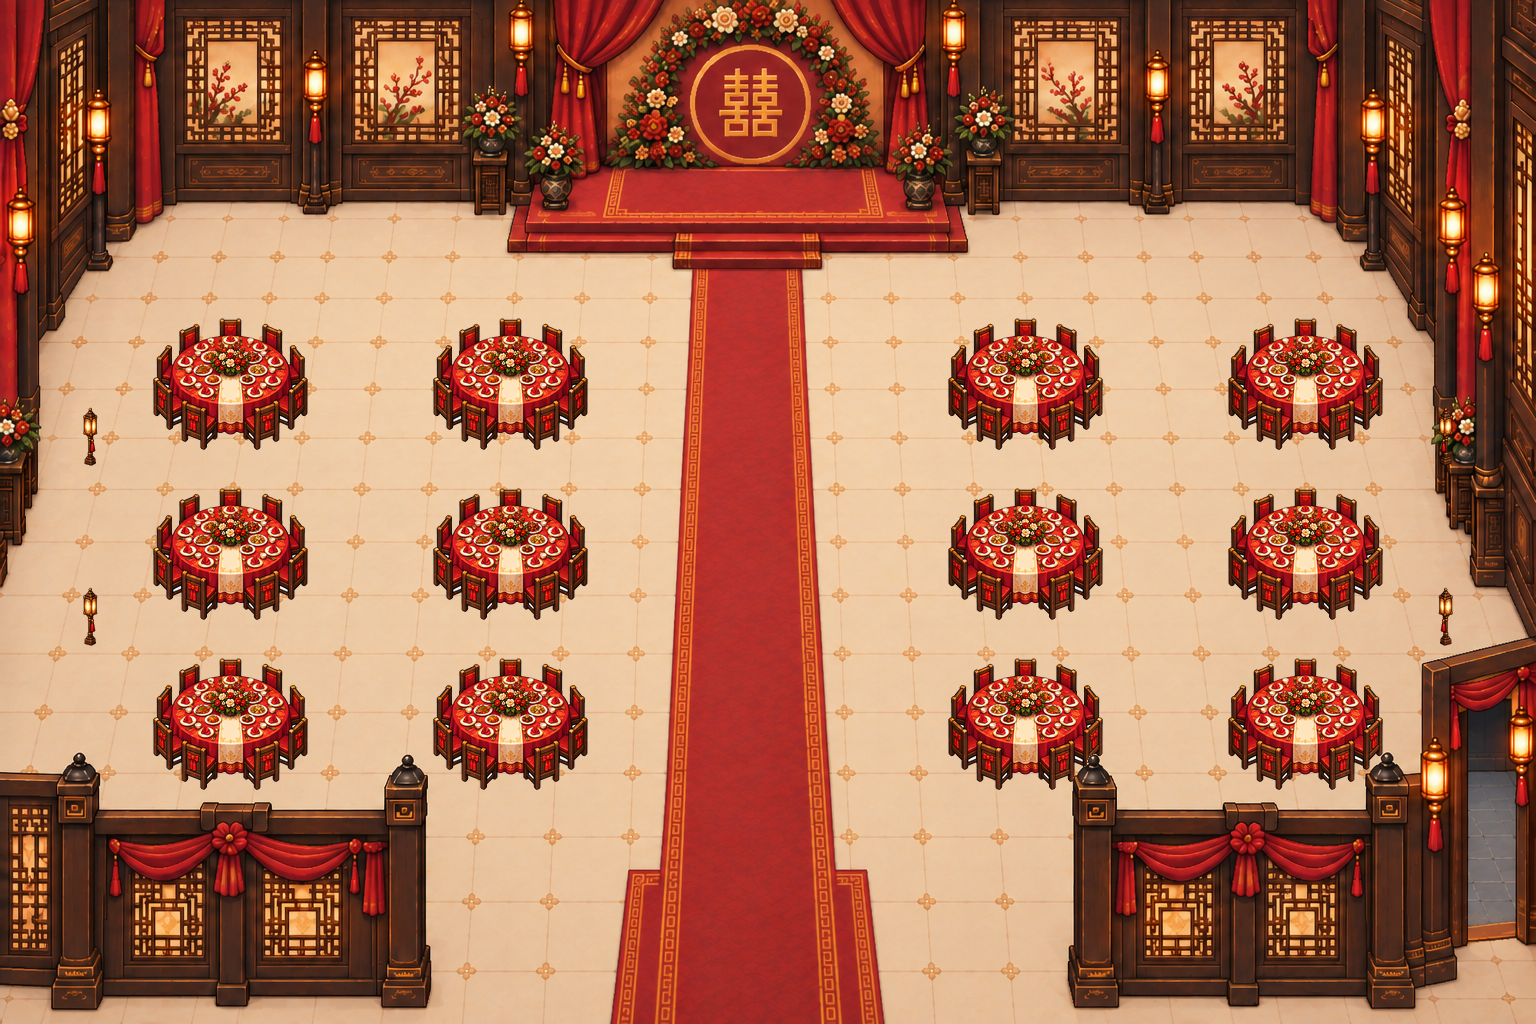
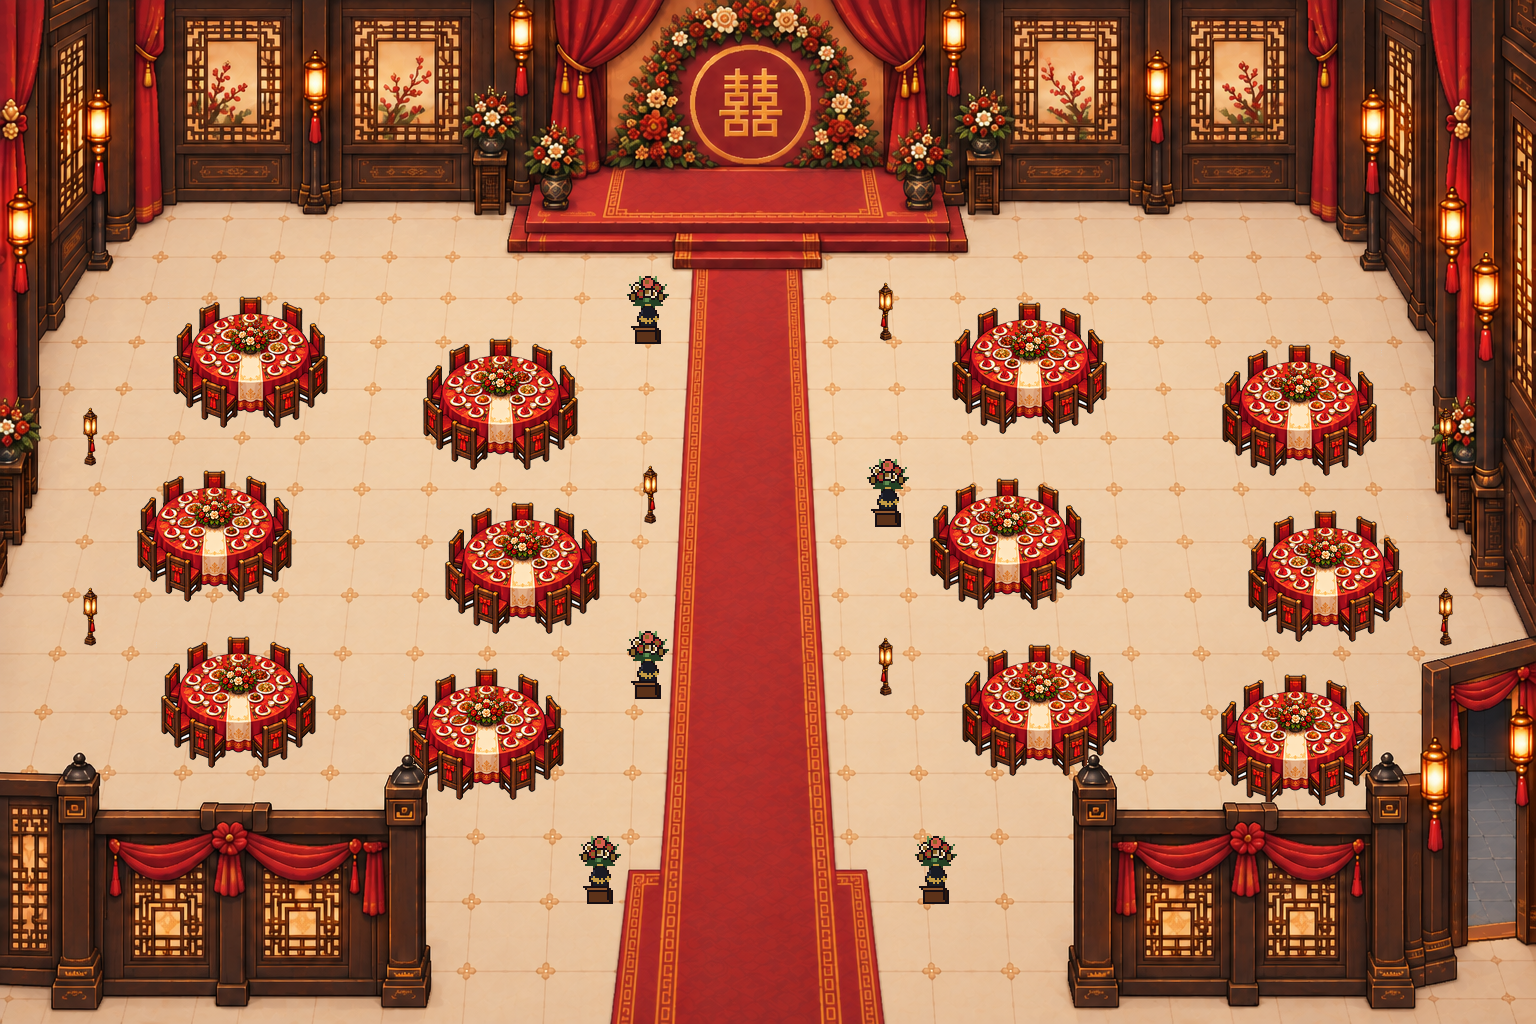
宴会厅桌子错落着摆（阿鱼 9/18 晚：太整齐、太空），红毯两边花和灯笼交替；每桌正前方那把椅子走得到了
- scene_12tables_stagger.json：还是两边各两列三排，每张桌上下左右错开约 20 像素、左右两边错法不一样；
  红毯两边落地灯笼 3 盏、花盆 3 盆交替，进门两边各一盆（花盆占位图 blk_flower_pot 是程序分身画的）
- build_layered.py：桌号先按 y 分排、排里离中线按 40 像素一档比，错落以后编号和原来同一个位置一样（T1、T2 仍是离主桌最近的两桌）
- layered_hall.gd：走近椅子、坐着的人的距离 60 → 78 像素。原来每桌 6 号椅离最近能站的地方 63～69 像素，12 把永远不出「坐这儿」
- test_layered.gd 加第 17 条：120 把椅子都走得到

diff --git a/godot/tools/build_layered.py b/godot/tools/build_layered.py
@@ -269,11 +269,20 @@ def main_blocks(src_path, check_out):
             else:
                 trx, try_ = fp2.get("rect", [240, 160])[0] / 2, fp2.get("rect", [240, 160])[1] / 2
             tabs.append({"x": p2["x"], "y": p2["y"], "rx": trx, "ry": try_})
-    # 同一排里离中线（红毯、主桌所在的 x）近的先编：T1、T2 就是离主桌最近的两桌（9/18 摆满一排四张以后要这样）
+    # 同一排里离中线（红毯、主桌所在的 x）近的先编：T1、T2 就是离主桌最近的两桌（9/18 摆满一排四张以后要这样）。
+    # 9/18 晚桌子错落着摆以后，一排里的桌子 y 不一样：先按 y 分排（和这排第一张差不到 85 像素算同一排），
+    # 排里离中线的距离按 40 像素一档比（差不多远算一样远），一样远的左边先编——编出来的号和错落前同一个位置一样
     mid = w / 2.0
-    tabs.sort(key=lambda t: (t["y"], abs(t["x"] - mid), t["x"]))
+    tabs.sort(key=lambda t: t["y"])
+    row, row_y = 0, None
+    for t in tabs:
+        if row_y is None or t["y"] - row_y > 85:
+            row, row_y = row + 1, t["y"]
+        t["row"] = row
+    tabs.sort(key=lambda t: (t["row"], round(abs(t["x"] - mid) / 40.0), t["x"]))
     for ti, t in enumerate(tabs):
         t["id"] = "T%d" % (ti + 1)
+        del t["row"]
 
     ph = src["person_h"]
     out = {
